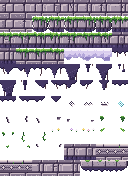
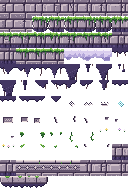
perf: Yvága dentro del 5 % de FPS en el celular emulado
La quilla en las puntas siempre y en el 45 % del medio de las islas (conos
hondos en el 30 %), menos detalle en la cara y en el relleno, estrellas y
brillos de las losas con mezcla normal (un solo lote) y menos nubes bajas en
la capa de atrás. Suma los sillares tallados a la hoja del cielo.

Claude-Session: https://claude.ai/code/session_01Tj7tjjP1cDveDbGBQfTxNq

diff --git a/tests/terrainDetailCielo.test.ts b/tests/terrainDetailCielo.test.ts
@@ -66,22 +66,36 @@ describe('detalle del terreno de Yvága (S118)', () => {
     for (const x of top) expect(LAYOUT.zones!.terrace['14']).toContain(v[23 * width + x]);
   });
 
-  it('la quilla: una por celda de aire bajo cada isla, con la forma de la isla, nunca sobre una plataforma', () => {
+  it('la quilla: en cada punta de isla siempre, en el medio en parte, con la forma de la isla, nunca sobre una plataforma', () => {
     const keels = plan.decals.filter((d) => d.kind.startsWith('keel'));
     const at = new Map(keels.map((d) => [d.y * width + d.x, d]));
-    let bottoms = 0;
+    let ends = 0;
+    let mids = 0;
+    let midKeels = 0;
     for (let y = 1; y < height; y++) {
       for (let x = 0; x < width; x++) {
         const above = g(x, y - 1);
         if (above < 0 || above > 15 || g(x, y) !== -1 || !map.emptyAir(x, y)) continue;
-        bottoms++;
-        const d = at.get(y * width + x);
-        expect(d, `quilla en ${x},${y}`).toBeDefined();
         const shape = above & 2 && above & 8 ? 'Mid' : above & 2 ? 'Left' : above & 8 ? 'Right' : 'Solo';
-        if (d!.kind !== 'keelDeep') expect(d!.kind.endsWith(shape), `${d!.kind} en ${x},${y}`).toBe(true);
+        const d = at.get(y * width + x);
+        if (shape === 'Mid') {
+          mids++;
+          if (d) {
+            midKeels++;
+            expect(d.kind === 'keelDeep' || d.kind.endsWith('Mid'), `${d.kind} en ${x},${y}`).toBe(true);
+          }
+          continue;
+        }
+        ends++;
+        expect(d, `quilla en la punta ${x},${y}`).toBeDefined();
+        expect(d!.kind.endsWith(shape), `${d!.kind} en ${x},${y}`).toBe(true);
       }
     }
-    expect(bottoms).toBeGreaterThan(400);
+    expect(ends).toBeGreaterThan(40);
+    expect(mids).toBeGreaterThan(350);
+    // El medio: lo que pide la configuración (la de dos celdas cuenta una), con margen.
+    expect(midKeels / mids).toBeGreaterThan(0.4);
+    expect(midKeels / mids).toBeLessThan(0.75);
     for (const d of keels) expect(map.emptyAir(d.x, d.y), `quilla en el aire libre ${d.x},${d.y}`).toBe(true);
   });
 
@@ -91,13 +105,13 @@ describe('detalle del terreno de Yvága (S118)', () => {
       while (y + n < height && g(x, y + n) === -1 && map.emptyAir(x, y + n)) n++;
       return n;
     };
-    // Los pasajes del tramo 5: bajo las islas de las filas 114 y 131 hay 3 filas.
-    for (const [x, y] of [[23, 115], [28, 132]]) {
+    // Los pasajes del tramo 5: bajo las islas de las filas 114 y 131 hay 3 filas (la punta de cada una, siempre).
+    for (const [x, y] of [[15, 115], [35, 132]]) {
       const d = plan.decals.find((q) => q.x === x && q.y === y);
       expect(d?.kind, `${x},${y}`).toMatch(/^keelShort/);
     }
     const deep = plan.decals.filter((d) => d.kind === 'keelDeep');
-    expect(deep.length).toBeGreaterThan(20);
+    expect(deep.length).toBeGreaterThan(16);
     for (let i = 0; i < deep.length; i += 2) {
       const d = deep[i];
       expect(clearBelow(d.x, d.y)).toBeGreaterThanOrEqual(CFG.keel!.deep!.clear);
@@ -116,8 +130,8 @@ describe('detalle del terreno de Yvága (S118)', () => {
     const cells = new Set(plan.decals.map((d) => d.y * width + d.x));
     expect(cells.size).toBe(plan.decals.length);
     const face = plan.decals.filter((d) => !d.kind.startsWith('keel'));
-    expect(face.length).toBeGreaterThan(80);
-    expect(plan.decals.length).toBeLessThan(900);
+    expect(face.length).toBeGreaterThan(40);
+    expect(plan.decals.length).toBeLessThan(650);
     for (const d of face) expect(g(d.x, d.y)).not.toBe(-1);
   });
 });

diff --git a/src/systems/terrainDetailLogic.ts b/src/systems/terrainDetailLogic.ts
@@ -77,11 +77,13 @@ export interface DetailConfig {
   regions?: RegionConfig;
   /**
    * S118: la quilla bajo las islas del cielo: en la celda de aire justo debajo de un terreno, una calcomanía según la forma
-   * de la isla (`keelMid`, `keelLeft`, `keelRight`, `keelSolo`) con `chance`; si debajo hay menos de `clear` filas de
+   * de la isla (`keelMid`, `keelLeft`, `keelRight`, `keelSolo`) con `chance` (`midChance` en el medio); si debajo hay menos de `clear` filas de
    * aire libre (un pasaje), la corta (`keelShort…`), y con menos de `shortClear`, nada.
    */
   keel?: {
+    /** Probabilidad en las puntas y en una isla de una casilla; `midChance`, en el medio de una isla (y `deep`, antes). */
     chance: number;
+    midChance: number;
     clear: number;
     shortClear: number;
     /** Un cono de dos celdas (`keelDeep`) bajo una celda con isla a `reach` o más a cada lado y `clear` filas libres. */
@@ -357,14 +359,17 @@ export function planTerrainDecals(
         }
         // S118: la quilla bajo una isla del cielo (la colisión no cambia: va en la celda de aire).
         const keel = cfg.keel;
-        if (keel && autotile(x, y - 1) && map.opaque(x, y - 1) && cellHash(x, y, seed, 13) < keel.chance) {
+        if (keel && autotile(x, y - 1) && map.opaque(x, y - 1)) {
           const above = g(x, y - 1);
+          const mid = above & RIGHT && above & LEFT;
           const look = Math.max(keel.clear, keel.deep?.clear ?? 0);
           let clear = 0;
           while (clear < look && inside(x, y + clear) && map.ground(x, y + clear) === -1 && map.emptyAir(x, y + clear)) clear++;
           const shape = KEEL_SHAPES[(above & RIGHT ? 1 : 0) + (above & LEFT ? 2 : 0)];
+          // Las puntas, siempre (la isla se afina); el medio, en una parte de las celdas (lo demás termina en el cascajo).
+          const keelRoll = cellHash(x, y, seed, 13);
           // En el corazón de una isla ancha, a veces un cono de dos celdas (`keelDeep`), con aire de sobra debajo.
-          if (shape === 'Mid' && keel.deep && clear >= keel.deep.clear && !used[i + width] && cellHash(x, y, seed, 14) < keel.deep.chance) {
+          if (mid && keel.deep && clear >= keel.deep.clear && !used[i + width] && cellHash(x, y, seed, 14) < keel.deep.chance) {
             let reach = 0;
             while (reach < keel.deep.reach && autotile(x - reach - 1, y - 1) && autotile(x + reach + 1, y - 1)) reach++;
             const deep = reach >= keel.deep.reach ? decalOf('keelDeep', x, y) : null;
@@ -375,13 +380,14 @@ export function planTerrainDecals(
               continue;
             }
           }
-          const kind = clear >= keel.clear ? `keel${shape}` : clear >= keel.shortClear ? `keelShort${shape}` : null;
+          const take = keelRoll < (mid ? keel.midChance : keel.chance);
+          const kind = !take ? null : clear >= keel.clear ? `keel${shape}` : clear >= keel.shortClear ? `keelShort${shape}` : null;
           const decal = kind ? decalOf(kind, x, y) : null;
           if (kind && decal) {
             used[i] = 1;
             decals.push({ x, y, id: decal.ids[0], kind, flip: decal.flip === true && cellHash(x, y, seed, 6) < 0.5 });
-            continue;
           }
+          continue;
         }
         // S113: raicillas que cuelgan debajo de una saliente, donde abajo hay aire de sobra.
         const hang = cfg.hangChance ?? 0;

diff --git a/src/config/gameplay.ts b/src/config/gameplay.ts
@@ -2446,7 +2446,7 @@ export const GAMEPLAY = {
       depth: -19.4,
       seed: 118,
       layers: [
-        { parallax: 0.32, drift: -2.2, spacing: 64, alpha: 0.55 },
+        { parallax: 0.32, drift: -2.2, spacing: 84, alpha: 0.55 },
         { parallax: 0.5, drift: 4, spacing: 92, alpha: 0.72 },
         { parallax: 0.72, drift: -6.5, spacing: 150, alpha: 0.85 },
       ],
@@ -2495,7 +2495,7 @@ export const GAMEPLAY = {
         [800, 'dusk'],
         [99999, 'low'],
       ] as ReadonlyArray<readonly [number, 'low' | 'dusk' | 'mid' | 'high']>,
-      density: { low: 0.9, dusk: 0.8, mid: 0.6, high: 0.3 },
+      density: { low: 0.7, dusk: 0.75, mid: 0.6, high: 0.3 },
       shooting: { everyMs: [10000, 20000] as const, durationMs: 800, travel: 150, angle: 0.42, minBand: 70, nightBottom: 900 },
     },
     overscale: 1.12,
@@ -3066,8 +3066,8 @@ export const GAMEPLAY = {
         },
         /**
          * S118: cielo (Yvága), ruinas de piedra clara con musgo. Casi todo son islas de una fila: el piso (aire arriba)
-         * lleva el detalle de la cara del sillar (musgo que baja, enredaderas, flores, grietas, desportillados y alguna
-         * runa gastada). Debajo de cada isla, la quilla de roca con dientes y raíces (`keel`); en un pasaje de menos de 4
+         * lleva el detalle de la cara del sillar (musgo que baja, enredaderas, flores, grietas, desportillados, sillares
+         * tallados y alguna runa gastada). Debajo de cada isla, la quilla de roca con dientes y raíces (`keel`); en un pasaje de menos de 4
          * filas, la corta. El piso de la arena (x 0-43, filas 18-25) es la zona `terrace`: losas, friso y sillares.
          */
         cielo: {
@@ -3076,18 +3076,19 @@ export const GAMEPLAY = {
           rootsChance: 0,
           rootletChance: 0,
           crystal: { reach: 2, minDepth: 2, maxDepth: 3, chance: 0 },
-          keel: { chance: 1, clear: 4, shortClear: 1, deep: { chance: 0.4, clear: 6, reach: 3 } },
+          /** S118, tras medir FPS: el medio de las islas, en el 45 % de las celdas (cada calcomanía es un cuadro más). */
+          keel: { chance: 1, midChance: 0.45, clear: 4, shortClear: 1, deep: { chance: 0.3, clear: 6, reach: 3 } },
           regions: { rest: 'island', rects: [{ zone: 'terrace', x: 0, y: 18, w: 44, h: 8 }] },
           zoneDecals: {
             island: {
-              floorChance: 0.34,
-              floor: { mossFace: 4, vine: 2, bloom: 3, fern: 2, crack: 2, chip: 2, rune: 1 },
-              bands: [{ minDepth: 1, maxDepth: 99, chance: 0.12, kinds: { crack: 2, chip: 2, rune: 1 } }],
+              floorChance: 0.2,
+              floor: { mossFace: 4, vine: 2, bloom: 3, fern: 2, crack: 2, chip: 2, carved: 2, rune: 1 },
+              bands: [{ minDepth: 1, maxDepth: 99, chance: 0.06, kinds: { crack: 2, chip: 2, carved: 2, rune: 1 } }],
             },
             terrace: {
               floorChance: 0.2,
               floor: { terraceMoss: 2, terraceCrack: 1 },
-              bands: [{ minDepth: 1, maxDepth: 99, chance: 0.14, kinds: { crack: 2, chip: 2, rune: 2 } }],
+              bands: [{ minDepth: 1, maxDepth: 99, chance: 0.14, kinds: { crack: 2, chip: 2, carved: 2, rune: 2 } }],
             },
           },
           /** Las masas son finas (una o dos filas; la base y la terraza, tres): el oscurecido casi no se ve, en pasos de 2 %. */

diff --git a/src/entities/bosses/TauStars.ts b/src/entities/bosses/TauStars.ts
@@ -33,10 +33,10 @@ export class TauStars {
   /** Una estrella en (x, y): devuelve el cristal (para los tweens de Tau). */
   add(x: number, y: number, depth: number): Phaser.GameObjects.Image {
     const s = this.scene;
-    this.halos.push(s.add.image(x, y, ATLAS, STAR_FRAMES.haloIdle).setScale(STAR_K).setDepth(depth - 0.1).setBlendMode(Phaser.BlendModes.ADD));
-    this.rays.push(s.add.image(x, y, ATLAS, STAR_FRAMES.rays).setScale(STAR_K).setDepth(depth - 0.05).setBlendMode(Phaser.BlendModes.ADD).setVisible(false));
+    this.halos.push(s.add.image(x, y, ATLAS, STAR_FRAMES.haloIdle).setScale(STAR_K).setDepth(depth - 0.1));
+    this.rays.push(s.add.image(x, y, ATLAS, STAR_FRAMES.rays).setScale(STAR_K).setDepth(depth - 0.05).setVisible(false));
     const crystal = s.add.image(x, y, ATLAS, STAR_FRAMES.idle).setScale(STAR_K).setDepth(depth);
-    this.glints.push(s.add.image(x, y, ATLAS, STAR_FRAMES.glint).setScale(STAR_K).setDepth(depth + 0.05).setBlendMode(Phaser.BlendModes.ADD).setVisible(false));
+    this.glints.push(s.add.image(x, y, ATLAS, STAR_FRAMES.glint).setScale(STAR_K).setDepth(depth + 0.05).setVisible(false));
     this.crystals.push(crystal);
     this.lit.push(false);
     return crystal;

diff --git a/src/assets/manifest.ts b/src/assets/manifest.ts
@@ -146,7 +146,7 @@ export const tilesetKey = (biome: string): string => `tiles_${biome}`;
 /** Hoja de detalle del terreno (S109) y su JSON: `tiles/detalle/<hoja>.png` y `.json` (tools/make-terrain-tiles.mjs). */
 export const terrainDetailKey = (sheet: string): string => `tiles_detail_${sheet}`;
 export const terrainDetailLayoutKey = (sheet: string): string => `tiles_detail_${sheet}_layout`;
-const TERRAIN_DETAIL_SHEETS = { cerro: [128, 176], estero: [128, 144], campo: [128, 144], pueblo: [128, 320], selva: [128, 256], montana: [128, 192], cielo: [128, 176] } as const;
+const TERRAIN_DETAIL_SHEETS = { cerro: [128, 176], estero: [128, 144], campo: [128, 144], pueblo: [128, 320], selva: [128, 256], montana: [128, 192], cielo: [128, 192] } as const;
 
 export const MANIFEST: AssetEntry[] = [
   ...BIOMES.map(

diff --git a/tests/cieloTiles.test.ts b/tests/cieloTiles.test.ts
@@ -185,7 +185,7 @@ describe('tileset del cielo por código (S118)', () => {
   });
 
   it('las calcomanías de la cara y la losa móvil están en la hoja', () => {
-    for (const kind of ['rune', 'crack', 'chip', 'mossFace', 'vine', 'bloom', 'fern', 'terraceMoss', 'terraceCrack']) {
+    for (const kind of ['rune', 'carved', 'crack', 'chip', 'mossFace', 'vine', 'bloom', 'fern', 'terraceMoss', 'terraceCrack']) {
       expect(layout.decals[kind]?.length ?? 0, kind).toBeGreaterThan(0);
       for (const d of layout.decals[kind]) for (const id of d.ids) expect(id).toBeLessThan(layout.count);
     }

diff --git a/src/entities/Mover.ts b/src/entities/Mover.ts
@@ -138,7 +138,7 @@ export class Mover implements SwitchTarget {
       this.block.setVisible(false);
       const glow = art ? glowTexture(scene, zone.width, art.look) : null;
       if (glow && art?.look.glow) {
-        this.glow = scene.add.image(zone.x, zone.y, glow).setOrigin(0, 0).setDepth(2.9).setBlendMode(Phaser.BlendModes.ADD);
+        this.glow = scene.add.image(zone.x, zone.y, glow).setOrigin(0, 0).setDepth(2.9);
       }
     }
     scene.physics.add.existing(this.block);
